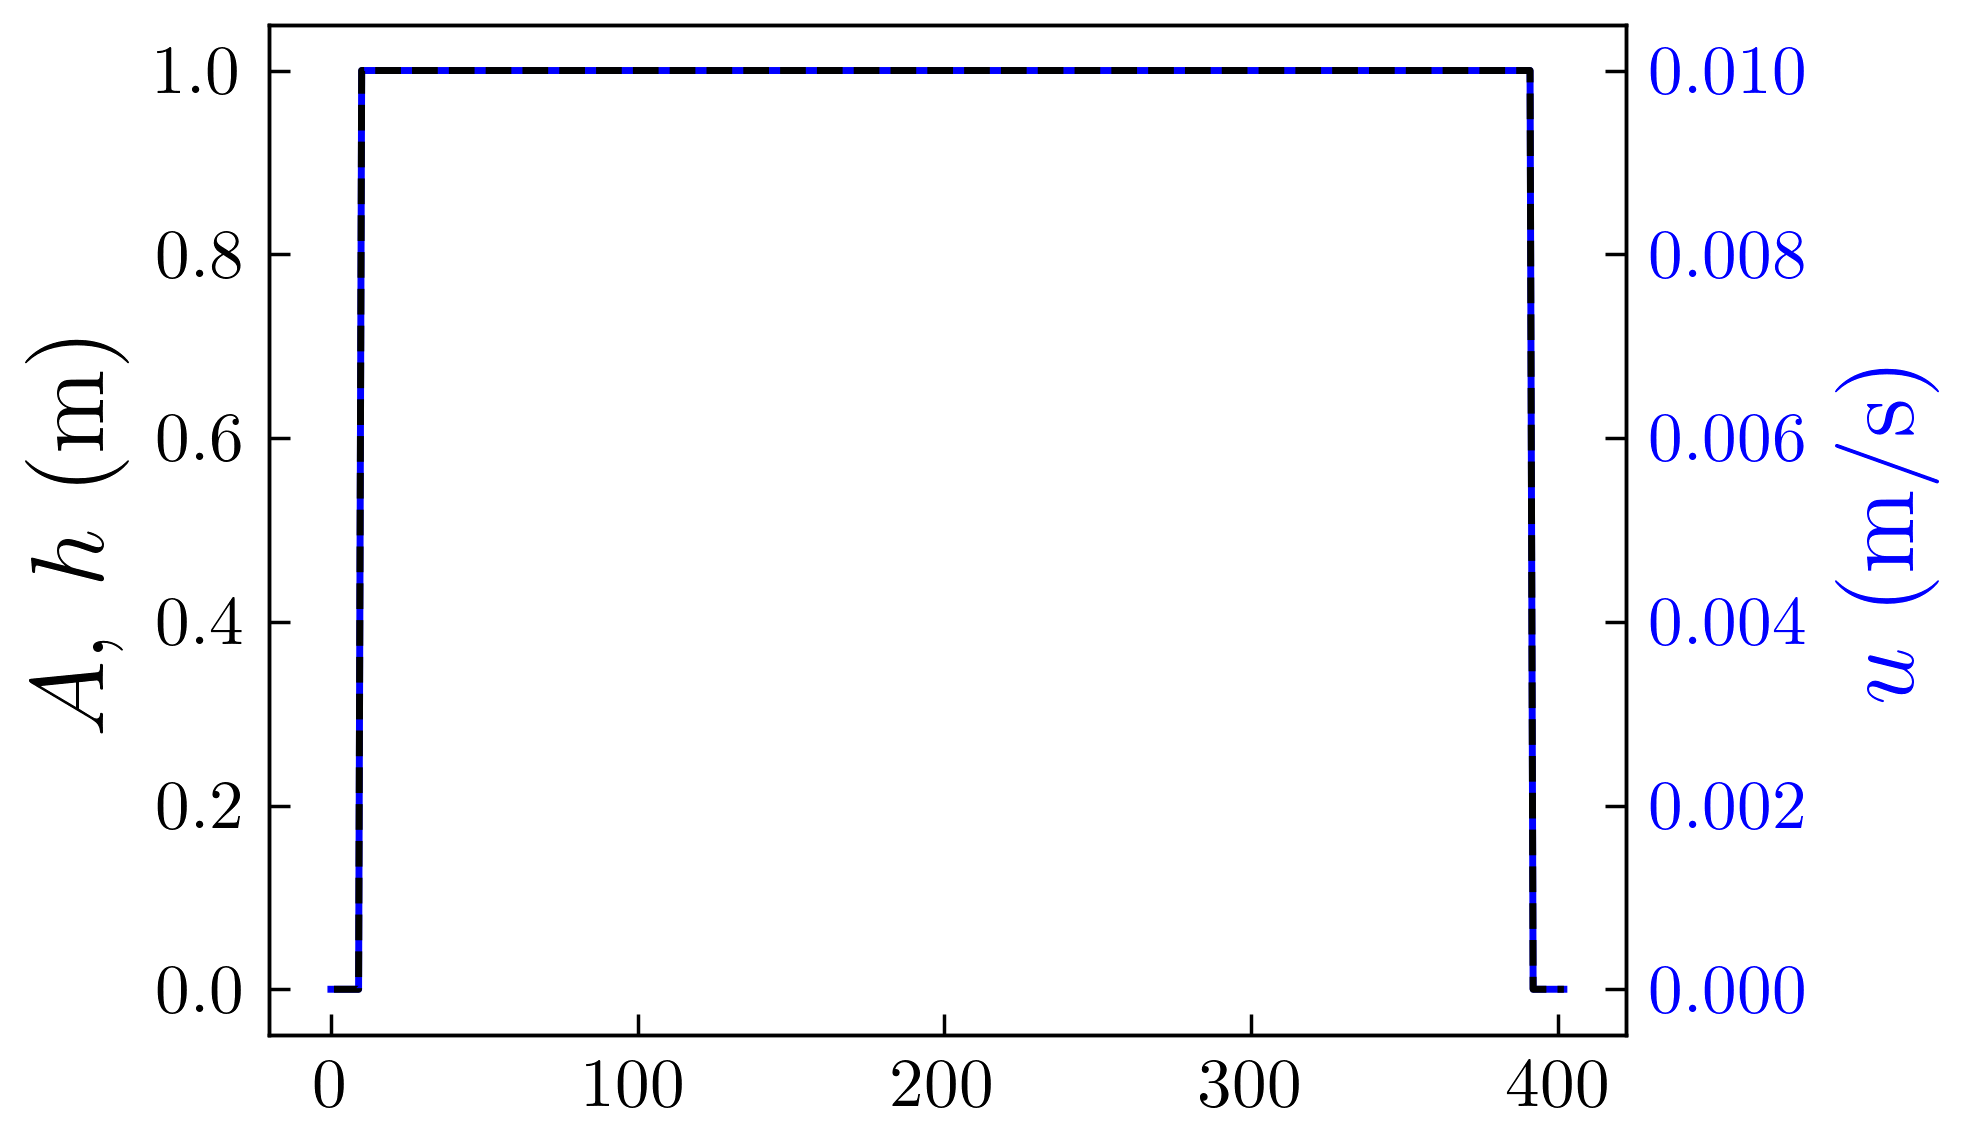
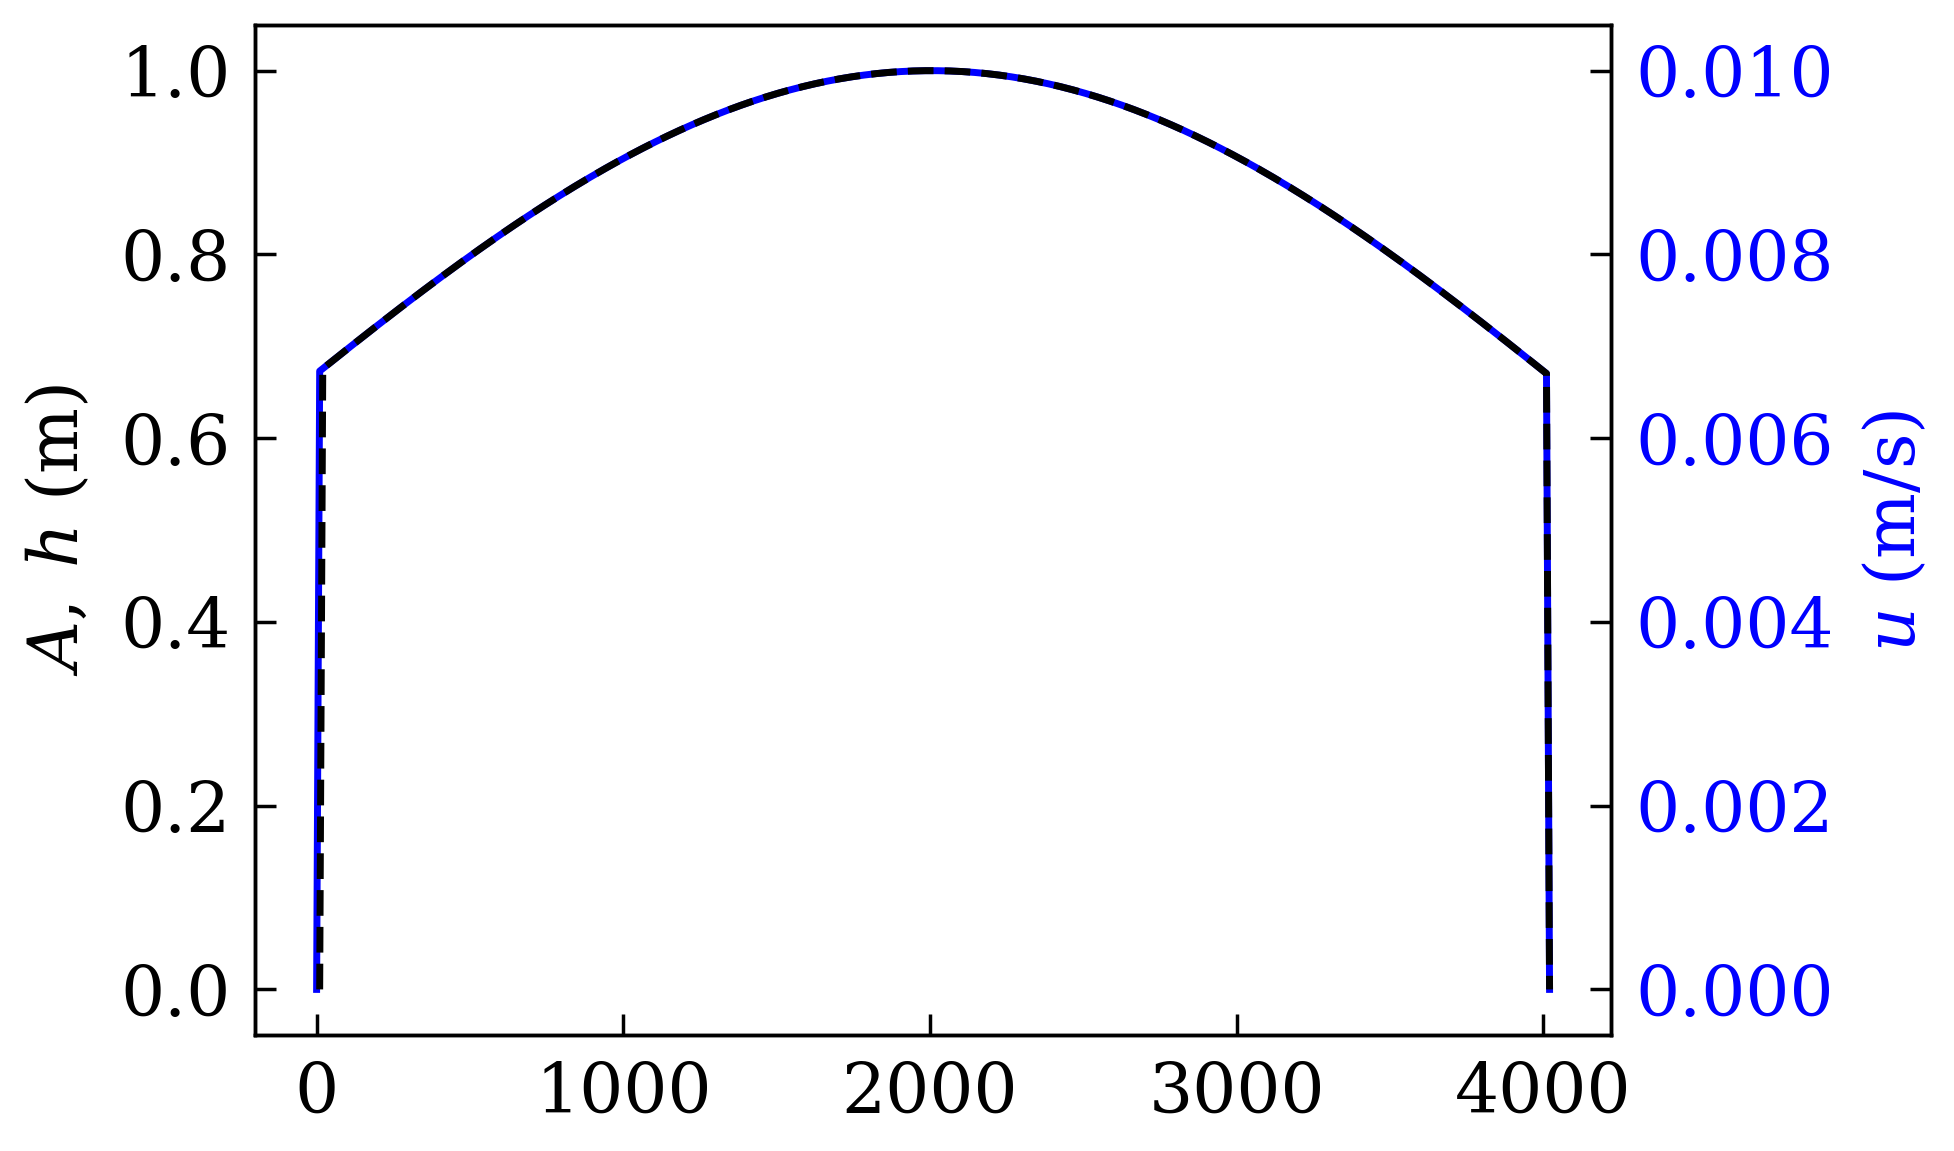
added inition conditions

diff --git a/sim1dplotting/sim1dplotting/plotting/plot.py b/sim1dplotting/sim1dplotting/plotting/plot.py
@@ -2,9 +2,10 @@ import numpy as np
 import matplotlib.pyplot as plt
 import matplotlib.colors as colors
 import cmocean
-import scienceplots
+# import scienceplots
 
-plt.style.use('science')
+# plt.style.use('science')
+plt.style.use('/aos/home/fstdenis/1D-SIM/sim1dplotting/science.mplstyle')
 
 def normalize_stresses(sigI, sigII, p, eps = 1e-12):
     

diff --git a/sim1dplotting/mu_phi_uniaxial.py b/sim1dplotting/mu_phi_uniaxial.py
@@ -37,7 +37,7 @@ print('Time steps', dates.T)
 dt = 1
 time = dates*dt/(60*60)
 
-dx = 1
+dx = 10
 solv = 1
 imex  = 0
 adv = 1
